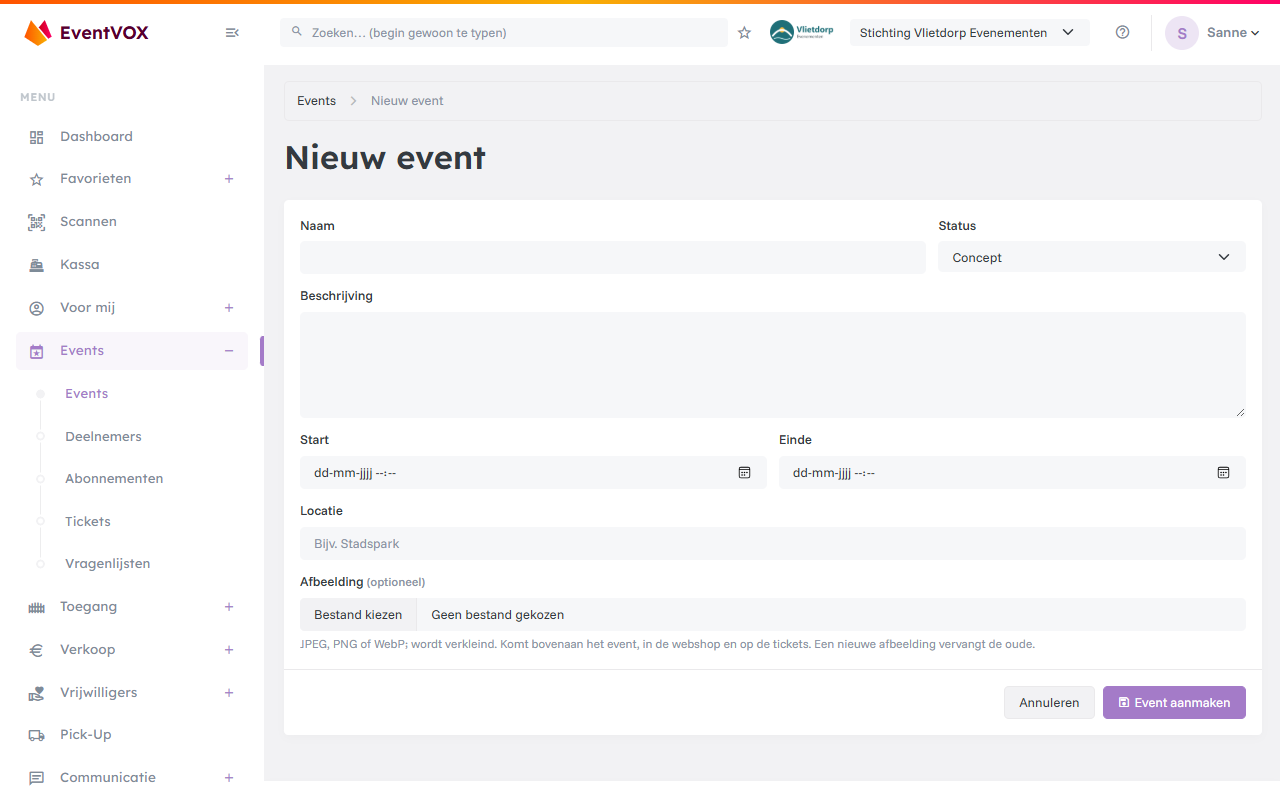
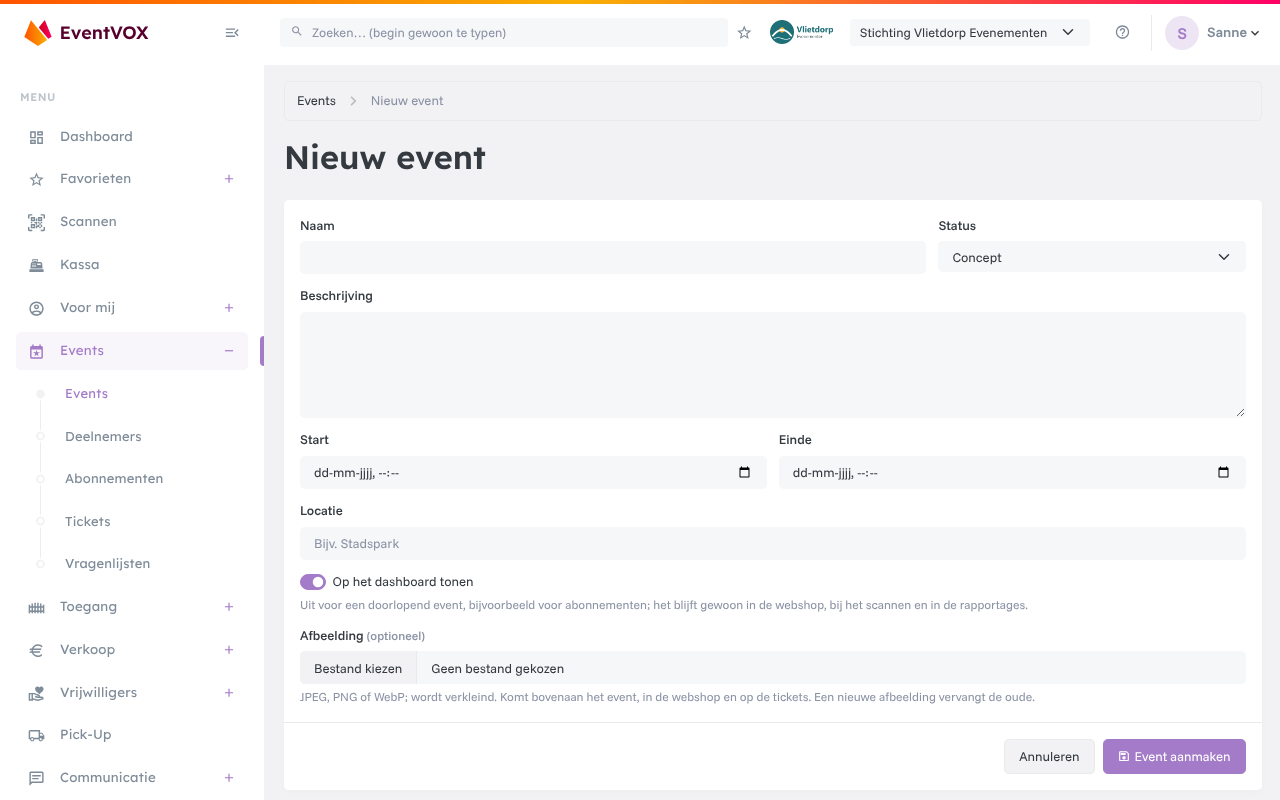
Events: Op het dashboard tonen (for an event that runs all year, such as season tickets)
Claude-Session: https://claude.ai/code/session_01XbTwMg7wxJwi4JQw7oTKWb

diff --git a/evenementen-en-tickets.md b/evenementen-en-tickets.md
@@ -35,7 +35,11 @@ Ga naar **Evenementen → Events**. Je ziet alle events van je organisatie, met 
 4. Optioneel: een **afbeelding**. Klik op **Bestand kiezen** en kies een JPEG-, PNG- of WebP-bestand van je computer of
    telefoon; het wordt automatisch verkleind. De afbeelding komt bovenaan het event, in de webshop en op de tickets.
    Bij **Bewerken** kies je een nieuwe (die vervangt de oude) of vink je **Afbeelding verwijderen** aan.
-5. Klik op **Event aanmaken**.
+5. **Op het dashboard tonen** staat standaard aan. Zet het uit voor een event dat het hele jaar doorloopt, bijvoorbeeld
+   één event voor alle abonnementen: dan staat het niet bij de events die nu bezig zijn, de komende events en de
+   verkoop op het dashboard. Het blijft gewoon in de webshop, bij het scannen en in de rapportages. Op de eventpagina
+   zie je dan **Niet op het dashboard** naast de naam.
+6. Klik op **Event aanmaken**.
 
 ![Nieuw event]({{ '/assets/images/event-new.png' | relative_url }})
 

diff --git a/aan-de-slag.md b/aan-de-slag.md
@@ -62,6 +62,10 @@ Het dashboard is je startpagina. Je ziet er:
   doorgeven;
 - nieuwsberichten die voor het dashboard bedoeld zijn.
 
+Een event waarbij **Op het dashboard tonen** uit staat (zie [Events]({{ '/evenementen-en-tickets/' | relative_url }})),
+bijvoorbeeld een doorlopend event voor abonnementen, staat niet bij de events die bezig zijn, de verkoop en de komende
+events.
+
 Een tegel staat er alleen als er iets te doen is en je de rechten voor dat onderdeel hebt. Een klik op de tegel opent
 de lijst met precies die gevallen.
 
